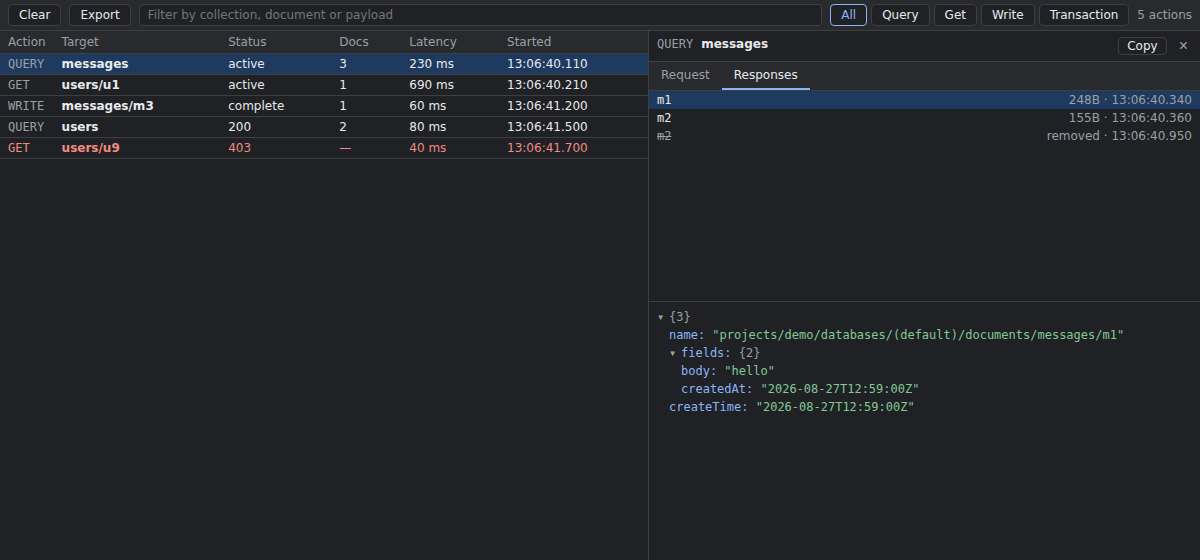
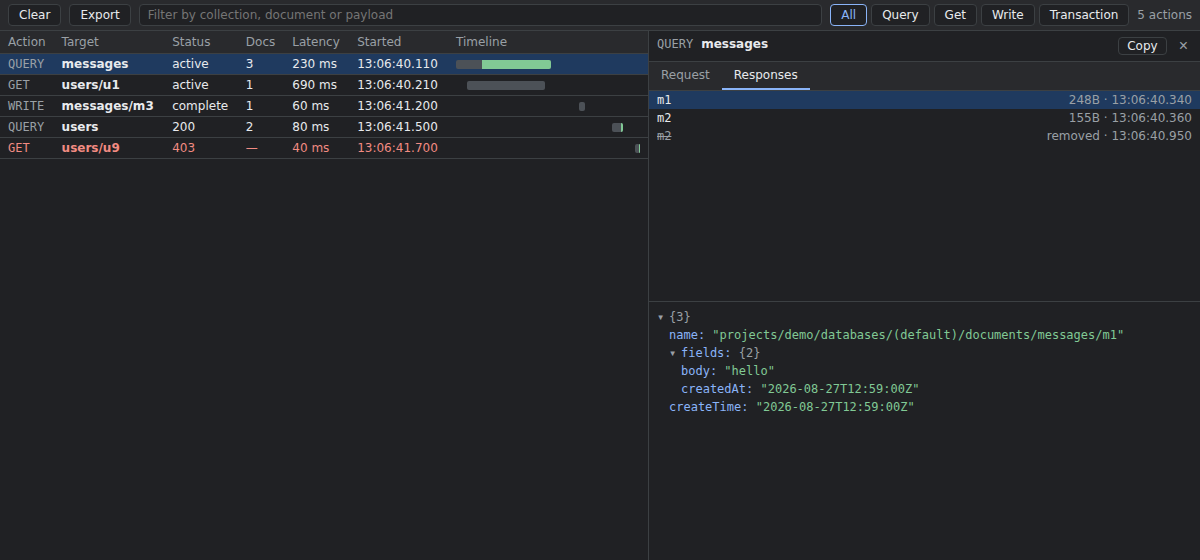
feat: put a waterfall next to each action (#11)

Changed region(s): [[0.1233, 0.0607, 0.5242, 0.2732]]

diff --git a/tests/unit/timeline.test.ts b/tests/unit/timeline.test.ts
@@ -1,0 +1,95 @@
+import { beforeEach, describe, expect, it } from "vitest";
+import { actionEnd, barFor, timelineOf } from "../../src/panel/timeline";
+import type { Action } from "../../src/shared/actions";
+import { ExchangeStore } from "../../src/shared/store";
+import { events } from "../support/session";
+
+function actionFor(actions: readonly Action[], target: string): Action {
+  const found = actions.find((action) => action.target === target);
+  if (!found) throw new Error(`no action for ${target}`);
+  return found;
+}
+
+describe("actionEnd", () => {
+  let actions: readonly Action[];
+
+  beforeEach(() => {
+    const store = new ExchangeStore();
+    for (const event of events()) store.apply(event);
+    actions = store.getActions();
+  });
+
+  it("is when a finished action finished", () => {
+    const write = actionFor(actions, "messages/m3");
+    expect(actionEnd(write)).toBe(write.endedAt);
+  });
+
+  it("is the last thing an open action did, not the wall clock", () => {
+    // Otherwise a listener's bar would creep while nothing was happening.
+    const listener = actionFor(actions, "messages");
+
+    expect(listener.endedAt).toBeUndefined();
+    expect(actionEnd(listener)).toBe(listener.responses.at(-1)?.timestamp);
+  });
+
+  it("falls back to the start for something that never got anywhere", () => {
+    const action = { startedAt: 5, responses: [] } as unknown as Action;
+    expect(actionEnd(action)).toBe(5);
+  });
+});
+
+describe("timelineOf", () => {
+  it("spans the whole capture", () => {
+    const store = new ExchangeStore();
+    for (const event of events()) store.apply(event);
+    const actions = store.getActions();
+
+    const timeline = timelineOf(actions);
+    const starts = actions.map((action) => action.startedAt);
+
+    expect(timeline.start).toBe(Math.min(...starts));
+    expect(timeline.start + timeline.span).toBe(
+      Math.max(...actions.map(actionEnd)),
+    );
+  });
+
+  it("never hands back a span you cannot divide by", () => {
+    expect(timelineOf([]).span).toBe(1);
+
+    const instant = [{ startedAt: 10, responses: [] }] as unknown as Action[];
+    expect(timelineOf(instant).span).toBe(1);
+  });
+});
+
+describe("barFor", () => {
+  const timeline = { start: 0, span: 1000 };
+
+  it("places a bar where the action sits in the window", () => {
+    const action = {
+      startedAt: 200,
+      respondedAt: 400,
+      endedAt: 700,
+      responses: [],
+    } as unknown as Action;
+
+    expect(barFor(action, timeline)).toEqual({
+      left: 20,
+      width: 50,
+      waited: 40,
+    });
+  });
+
+  it("is all wait until something comes back", () => {
+    const action = {
+      startedAt: 0,
+      endedAt: 500,
+      responses: [],
+    } as unknown as Action;
+    expect(barFor(action, timeline).waited).toBe(100);
+  });
+
+  it("keeps something instantaneous visible", () => {
+    const action = { startedAt: 500, responses: [] } as unknown as Action;
+    expect(barFor(action, timeline).width).toBeGreaterThan(0);
+  });
+});

diff --git a/src/panel/timeline.ts b/src/panel/timeline.ts
@@ -1,0 +1,64 @@
+/**
+ * Where each action sits on the capture's clock, for the waterfall column.
+ *
+ * An action that is still open has no end, so it is drawn out to the last
+ * thing it did rather than to the wall clock: the panel then renders the same
+ * picture every time it renders, which is what makes it testable — and stops
+ * the bars from creeping while nothing is happening.
+ */
+import type { Action } from "../shared/actions";
+
+export interface Timeline {
+  start: number;
+  /** Never zero, so it is always safe to divide by. */
+  span: number;
+}
+
+/** The last moment an action did anything. */
+export function actionEnd(action: Action): number {
+  return (
+    action.endedAt ??
+    action.responses.at(-1)?.timestamp ??
+    action.respondedAt ??
+    action.startedAt
+  );
+}
+
+/** The window every bar is drawn against: the whole capture, not the filter. */
+export function timelineOf(actions: readonly Action[]): Timeline {
+  if (actions.length === 0) return { start: 0, span: 1 };
+
+  let start = Number.POSITIVE_INFINITY;
+  let end = Number.NEGATIVE_INFINITY;
+
+  for (const action of actions) {
+    start = Math.min(start, action.startedAt);
+    end = Math.max(end, actionEnd(action));
+  }
+
+  return { start, span: Math.max(end - start, 1) };
+}
+
+export interface Bar {
+  /** Percentages, ready for `style`. */
+  left: number;
+  width: number;
+  /** How much of the bar was spent waiting for the first response. */
+  waited: number;
+}
+
+export function barFor(action: Action, timeline: Timeline): Bar {
+  const start = action.startedAt;
+  const end = actionEnd(action);
+  const duration = Math.max(end - start, 0);
+
+  return {
+    left: ((start - timeline.start) / timeline.span) * 100,
+    // Something that took no measurable time still has to be visible.
+    width: Math.max((duration / timeline.span) * 100, 0.4),
+    waited:
+      action.respondedAt && duration > 0
+        ? Math.min(((action.respondedAt - start) / duration) * 100, 100)
+        : 100,
+  };
+}

diff --git a/src/panel/components/ActionList.tsx b/src/panel/components/ActionList.tsx
@@ -2,6 +2,7 @@ import { useLayoutEffect, useRef } from "react";
 
 import type { Action, ActionKind } from "../../shared/actions";
 import { classNames, formatDuration, formatTime } from "../format";
+import { barFor, type Timeline } from "../timeline";
 import * as styles from "./ActionList.module.css";
 
 /** Read like an HTTP method: the verb first, then what it acts on. */
@@ -28,10 +29,12 @@ const STICK_THRESHOLD = 8;
 
 export function ActionList({
   actions,
+  timeline,
   selectedId,
   onSelect,
 }: {
   actions: readonly Action[];
+  timeline: Timeline;
   selectedId: string | undefined;
   onSelect: (id: string) => void;
 }) {
@@ -81,6 +84,7 @@ export function ActionList({
             <th>Docs</th>
             <th>Latency</th>
             <th>Started</th>
+            <th className={styles.timelineHeading}>Timeline</th>
           </tr>
         </thead>
         <tbody>
@@ -100,10 +104,41 @@ export function ActionList({
               <td>{action.documentCount || "—"}</td>
               <td>{formatDuration(latencyOf(action))}</td>
               <td>{formatTime(action.startedAt)}</td>
+              <td className={styles.timeline}>
+                <Waterfall action={action} timeline={timeline} />
+              </td>
             </tr>
           ))}
         </tbody>
       </table>
     </div>
+  );
+}
+
+/** One action's span, drawn against the whole capture. */
+function Waterfall({
+  action,
+  timeline,
+}: {
+  action: Action;
+  timeline: Timeline;
+}) {
+  const { left, width, waited } = barFor(action, timeline);
+  const latency = latencyOf(action);
+
+  return (
+    <span className={styles.track}>
+      <span
+        className={styles.bar}
+        style={{ left: `${left}%`, width: `${width}%` }}
+        title={
+          latency == null
+            ? "no response yet"
+            : `${formatDuration(latency)} to the first response`
+        }
+      >
+        <span className={styles.received} style={{ left: `${waited}%` }} />
+      </span>
+    </span>
   );
 }

diff --git a/tests/e2e/panel.test.ts b/tests/e2e/panel.test.ts
@@ -33,6 +33,33 @@ describe("the panel", () => {
     ]);
   });
 
+  it("draws each action where it happened", async () => {
+    const bars = await panel.page
+      .locator("tbody tr td:last-child")
+      .evaluateAll((cells) =>
+        cells.map((cell) => {
+          const bar = cell.querySelector<HTMLElement>("span > span");
+          return {
+            left: Number.parseFloat(bar?.style.left ?? "-1"),
+            width: Number.parseFloat(bar?.style.width ?? "-1"),
+          };
+        }),
+      );
+
+    expect(bars).toHaveLength(5);
+    // The capture starts with the first action and ends with the last.
+    expect(bars[0]?.left).toBe(0);
+    expect(bars.at(-1)).toMatchObject({ left: expect.any(Number) });
+
+    // Every bar starts after the one above it, and stays inside the window.
+    const lefts = bars.map((bar) => bar.left);
+    expect([...lefts].sort((a, b) => a - b)).toEqual(lefts);
+    for (const bar of bars) {
+      expect(bar.width).toBeGreaterThan(0);
+      expect(bar.left + bar.width).toBeLessThanOrEqual(100.001);
+    }
+  });
+
   it("filters on what the rows say", async () => {
     await panel.page.fill("input[type=search]", "users");
     await expect.poll(async () => (await panel.rows()).length).toBe(3);

diff --git a/src/panel/App.tsx b/src/panel/App.tsx
@@ -6,6 +6,7 @@ import * as styles from "./App.module.css";
 import { ActionDetail } from "./components/ActionDetail";
 import { ActionList } from "./components/ActionList";
 import { type KindFilter, matchesKind, Toolbar } from "./components/Toolbar";
+import { timelineOf } from "./timeline";
 import { downloadText } from "./transfer";
 import { useCapture } from "./useCapture";
 
@@ -32,6 +33,9 @@ export function App() {
     () => actions.filter((action) => matches(action, query, kind)),
     [actions, query, kind],
   );
+
+  // Drawn against the whole capture, so filtering does not rescale the bars.
+  const timeline = useMemo(() => timelineOf(actions), [actions]);
 
   const selected = visible.find((action) => action.id === selectedId);
 
@@ -60,6 +64,7 @@ export function App() {
       <div className={styles.body}>
         <ActionList
           actions={visible}
+          timeline={timeline}
           selectedId={selectedId}
           onSelect={setSelectedId}
         />

diff --git a/src/panel/components/ActionList.module.css b/src/panel/components/ActionList.module.css
@@ -60,6 +60,41 @@
     font-family: var(--font-mono);
   }
 
+  .timelineHeading {
+    width: 200px;
+  }
+
+  .timeline {
+    /* The bars are the only thing in the row that can afford to be squeezed. */
+    width: 200px;
+    min-width: 120px;
+  }
+
+  .track {
+    position: relative;
+    display: block;
+    height: 9px;
+  }
+
+  /* The bar is the wait; what came back is painted over the end of it. */
+  .bar {
+    position: absolute;
+    top: 0;
+    height: 100%;
+    min-width: 2px;
+    border-radius: 2px;
+    background: var(--waiting);
+  }
+
+  .received {
+    position: absolute;
+    top: 0;
+    right: 0;
+    height: 100%;
+    border-radius: 0 2px 2px 0;
+    background: var(--inbound);
+  }
+
   .target {
     max-width: 480px;
     overflow: hidden;

diff --git a/src/panel/theme.css b/src/panel/theme.css
@@ -9,6 +9,7 @@
   --accent: #1a73e8;
   --outbound: #1a73e8;
   --inbound: #0f9d58;
+  --waiting: #c6cad0;
   --error: #d93025;
 
   --font-ui: system-ui, -apple-system, "Segoe UI", Roboto, sans-serif;
@@ -27,6 +28,7 @@
     --accent: #8ab4f8;
     --outbound: #8ab4f8;
     --inbound: #81c995;
+    --waiting: #4c5157;
     --error: #f28b82;
   }
 }

diff --git a/README.md b/README.md
@@ -87,4 +87,3 @@ extension decodes, and the conventions this repository holds to.
 - Persist across page navigation, with a "preserve log" toggle.
 - A raw transport view, for debugging the channel itself rather than the
   actions riding on it — the handshakes and keepalives the action view drops.
-- Timeline/waterfall column.
